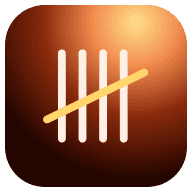
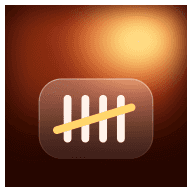
App-Symbol im Glut-Look: Sonnenschein auf Glutgrund, Strichliste auf Glaskachel, randlos für iOS

diff --git a/pwa-assets.config.ts b/pwa-assets.config.ts
@@ -5,8 +5,8 @@ export default defineConfig({
   headLinkOptions: { preset: '2023' },
   preset: {
     ...minimal2023Preset,
-    maskable: { ...minimal2023Preset.maskable, padding: 0.1, resizeOptions: { background: '#260600' } },
-    apple: { ...minimal2023Preset.apple, padding: 0.1, resizeOptions: { background: '#260600' } },
+    maskable: { ...minimal2023Preset.maskable, padding: 0, resizeOptions: { background: '#260600' } },
+    apple: { ...minimal2023Preset.apple, padding: 0, resizeOptions: { background: '#260600' } },
   },
   images: ['public/favicon.svg'],
 });
